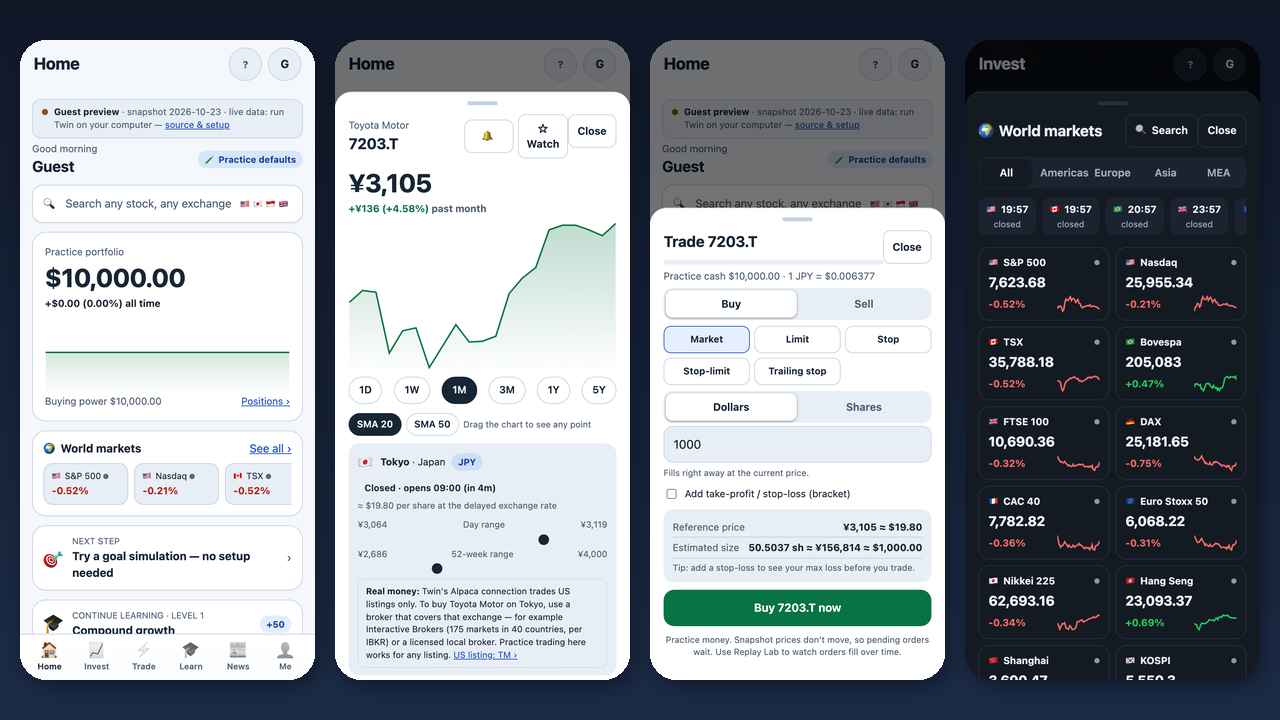
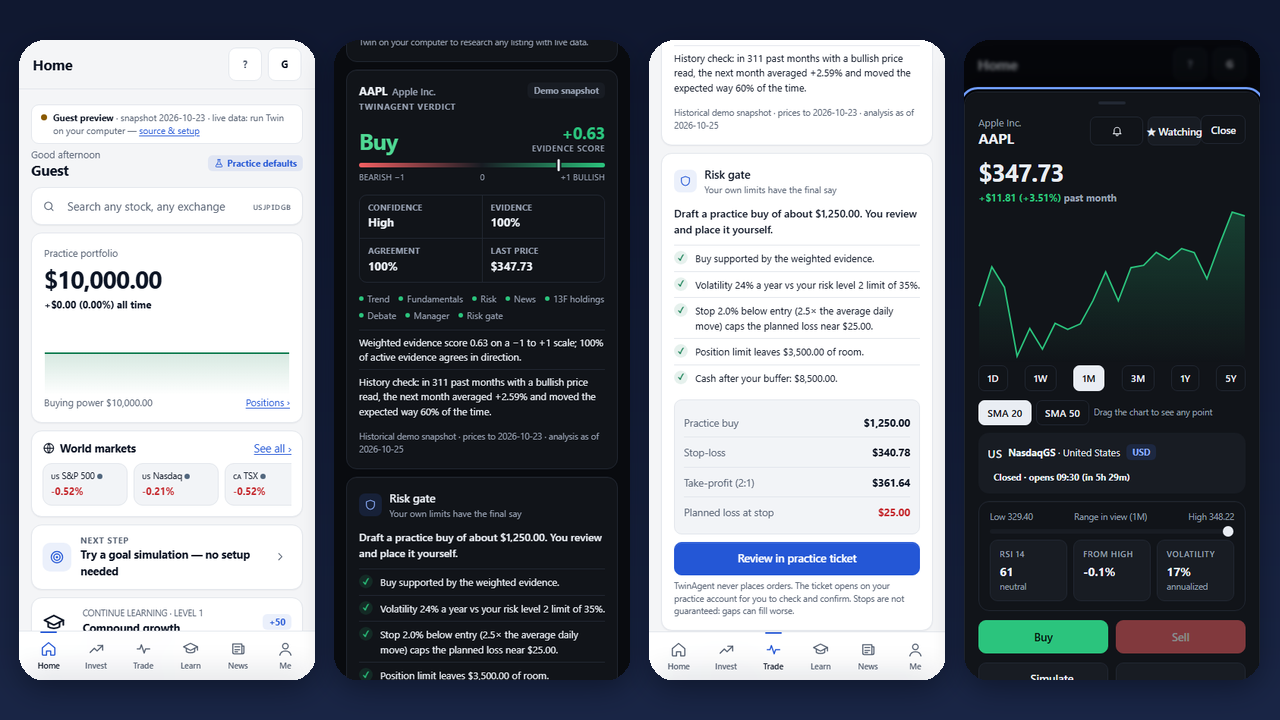
Twin card: 1.5 redesign screenshot and 1.5.1/1.5.2 description

diff --git a/index.html b/index.html
@@ -522,11 +522,11 @@
           </article>
           
           <article class="project-card" data-category="Apps">
-            <img src="./assets/projects/twin.png" alt="Twin v1.4: global stock search, Toyota stock page in yen with market status, world markets and order ticket" class="project-card-image" loading="lazy" decoding="async">
+            <img src="./assets/projects/twin.png" alt="Twin 1.5: redesigned Home, TwinAgent Buy verdict with evidence score, risk gate with practice-trade plan, and AAPL stock page" class="project-card-image" loading="lazy" decoding="async">
             <div class="project-content">
               <span class="project-category">Apps</span>
               <h3 class="project-title">Twin</h3>
-              <p class="project-description">Twin is an iPhone-ready investing and trading companion. New in 1.5: TwinAgent, a free research team of five analysts (trend, SEC-filed fundamentals, risk, relevance-screened headlines, famous investors' 13Fs) that argue a bull and bear case from cited, dated evidence; a portfolio manager rates the stock and a risk gate built from your own limits sizes or blocks the idea. No AI subscription, the same evidence always gives the same report, future data is filtered out, and a walk-forward scorecard tests the price evidence over decades against buy-and-hold. Search stocks by company, ticker or country — Tokyo, Hong Kong, Jakarta, London, Frankfurt, Mumbai, Toronto, São Paulo, Sydney and more — with exchange, currency, market hours, ≈ USD price and US-listing hints on every stock page. World markets shows market clocks, 18 indices, movers and a heatmap; practice trades in a separate $10,000 USD portfolio convert foreign prices at delayed FX rates, and totals can be shown in your home currency (25 currencies). Continue as guest or share a ?guest link; market, limit, stop, stop-limit and trailing orders with brackets, price alerts, scrub charts with SMA/EMA/RSI, portfolio X-ray with country and currency exposure, a bar-by-bar Replay Lab and 12 Twin Academy lessons. The local server searches any Yahoo Finance listing; the web demo uses a dated snapshot of 54 global stocks on 25+ exchanges. Optional real trading through your own Alpaca account (US listings only) on the local server. Not financial advice.</p>
+              <p class="project-description">Twin is an iPhone-ready investing and trading companion with a clean, professional design (1.5.1: new design system, line icons, dark and light themes) that updates itself the moment a new version ships (1.5.2). New in 1.5: TwinAgent, a free research team of five analysts (trend, SEC-filed fundamentals, risk, relevance-screened headlines, famous investors' 13Fs) that argue a bull and bear case from cited, dated evidence; a portfolio manager rates the stock and a risk gate built from your own limits sizes or blocks the idea. No AI subscription, the same evidence always gives the same report, future data is filtered out, and a walk-forward scorecard tests the price evidence over decades against buy-and-hold. Search stocks by company, ticker or country — Tokyo, Hong Kong, Jakarta, London, Frankfurt, Mumbai, Toronto, São Paulo, Sydney and more — with exchange, currency, market hours, ≈ USD price and US-listing hints on every stock page. World markets shows market clocks, 18 indices, movers and a heatmap; practice trades in a separate $10,000 USD portfolio convert foreign prices at delayed FX rates, and totals can be shown in your home currency (25 currencies). Continue as guest or share a ?guest link; market, limit, stop, stop-limit and trailing orders with brackets, price alerts, scrub charts with SMA/EMA/RSI, portfolio X-ray with country and currency exposure, a bar-by-bar Replay Lab and 12 Twin Academy lessons. The local server searches any Yahoo Finance listing; the web demo uses a dated snapshot of 54 global stocks on 25+ exchanges. Optional real trading through your own Alpaca account (US listings only) on the local server. Not financial advice.</p>
               <div class="project-tags">
                 <span class="tag">TwinAgent</span>
                 <span class="tag">multi-agent research</span>
